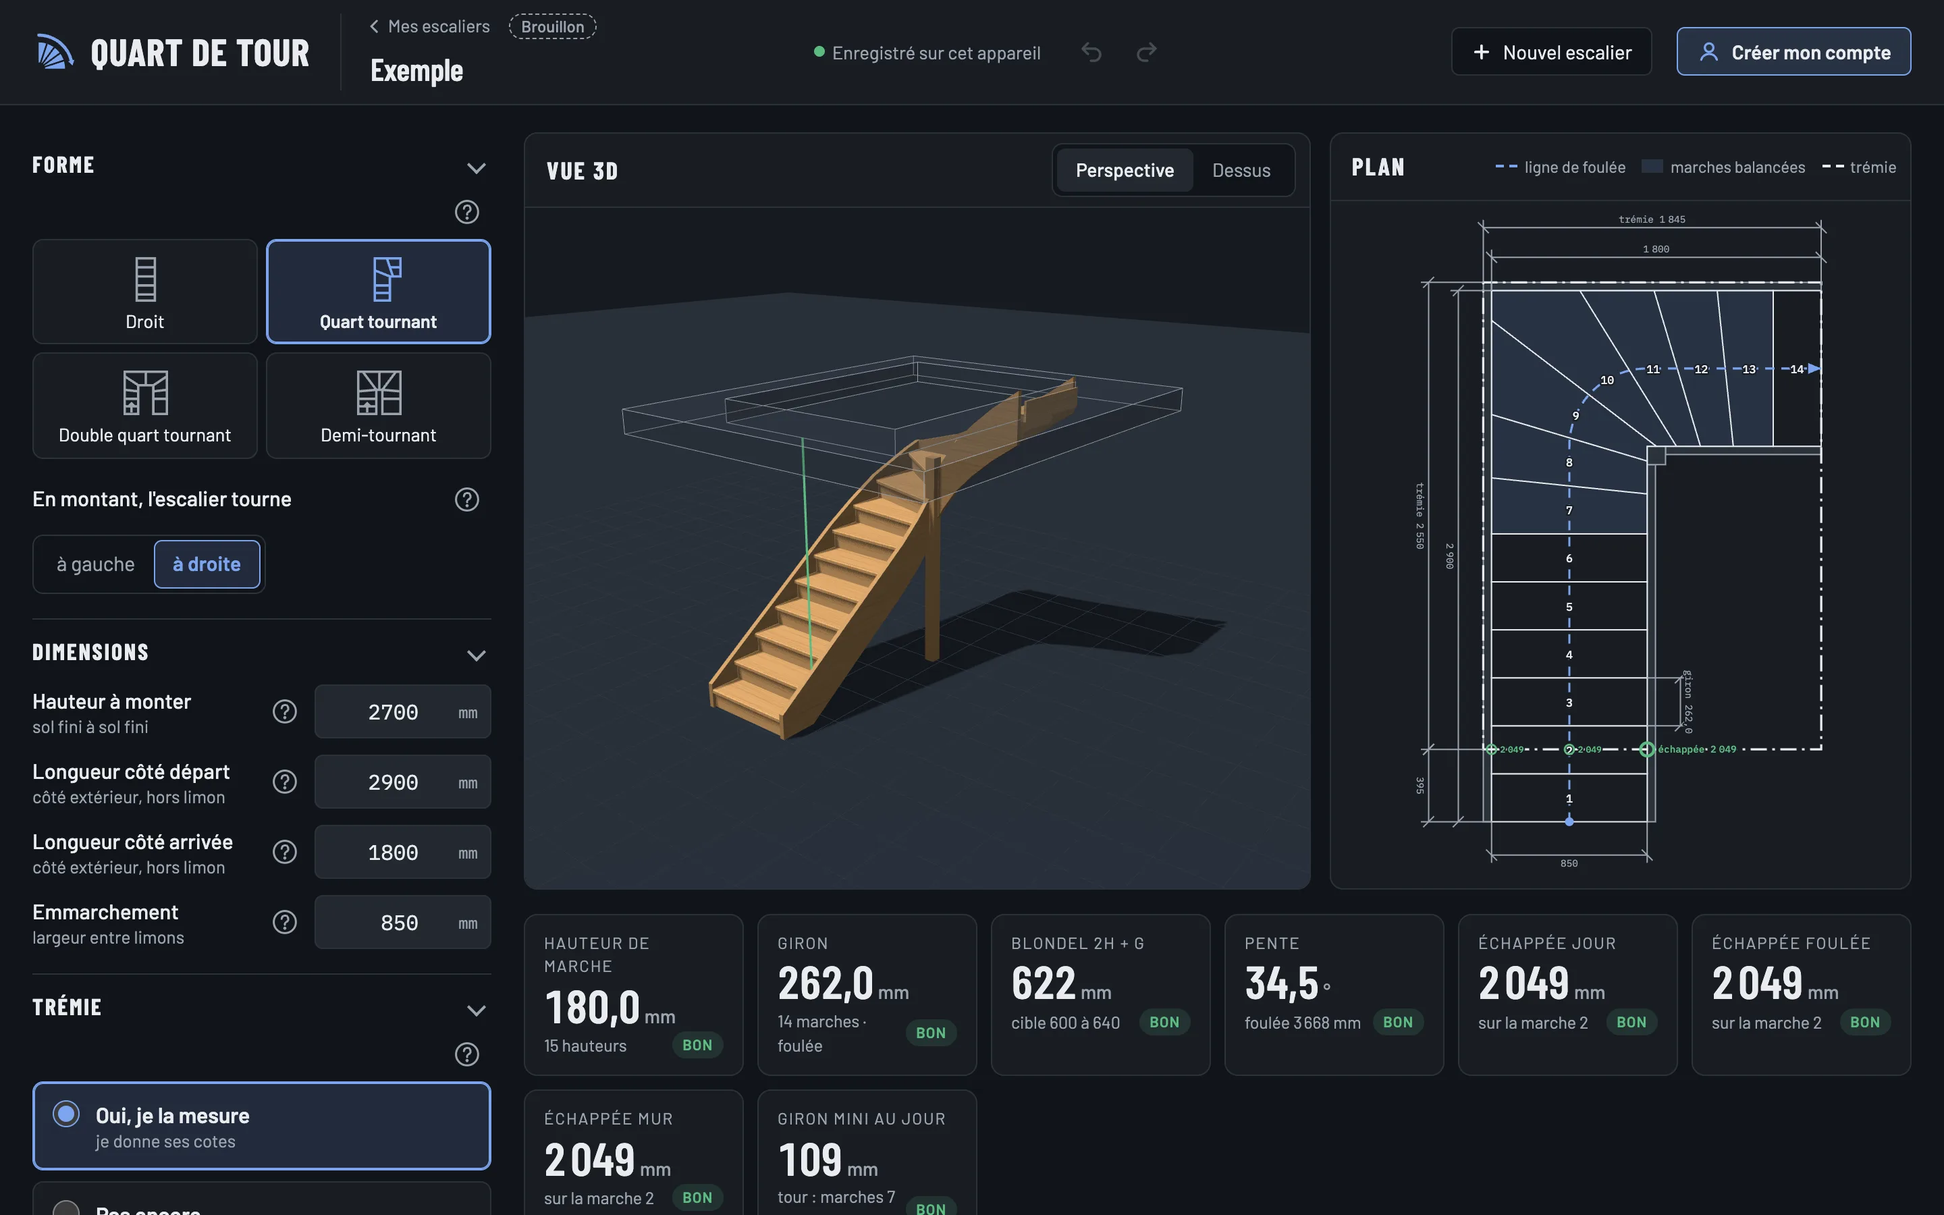
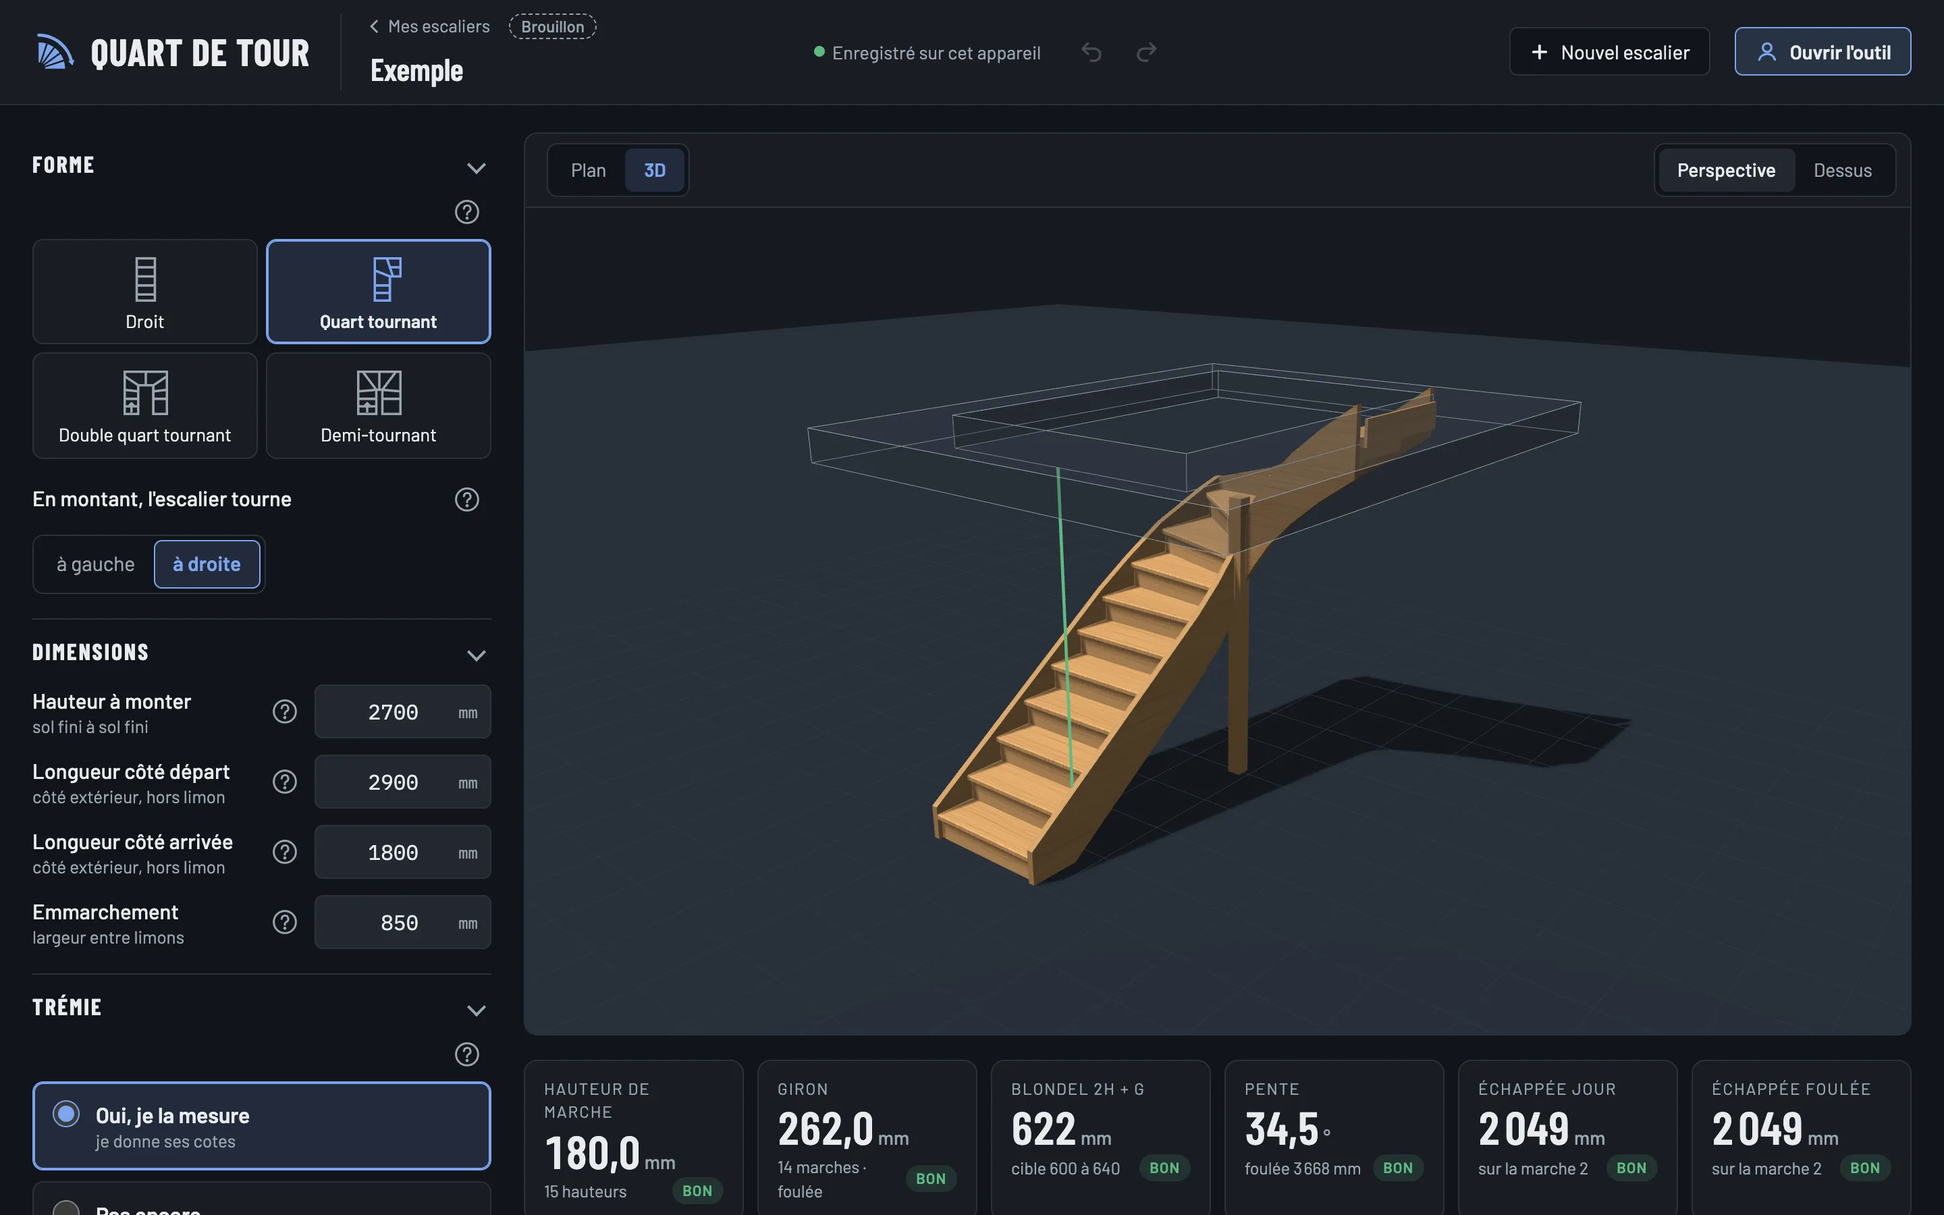
Une seule vue : plan ou 3D, et la vue à l'ouverture dans Mon compte
- Le plan et la 3D partagent un panneau (#vue) : bouton Plan / 3D, puis
  Dessus / Côté pour le plan, Perspective / Dessus pour la 3D.
- Téléphone : un seul onglet Vue à la place des onglets 3D et Plan.
- Mon compte : « Vue à l'ouverture », préférence de l'appareil (limon-vue,
  3D par défaut).
- 3D dessinée masquée : le recul se recalcule à son premier affichage.
- Captures de la page publique refaites (npm run vitrine).

diff --git a/app/index.html b/app/index.html
@@ -229,6 +229,16 @@
             ></span
           ><input type="checkbox" role="switch" id="advToggle"
         /></label>
+        <div class="adv pref">
+          <span
+            ><b>Vue à l'ouverture</b
+            ><small>Celle que vous voyez en ouvrant l'outil. L'autre reste à un bouton.</small></span
+          >
+          <div class="seg" role="group" aria-label="Vue à l'ouverture">
+            <button id="favoriPlan" type="button" aria-pressed="false">Plan</button
+            ><button id="favori3d" type="button" aria-pressed="true">3D</button>
+          </div>
+        </div>
         <div class="soon">
           <h3>Bientôt</h3>
           <ul>
@@ -644,32 +654,30 @@
 
       <main class="main">
         <section class="views">
-          <div class="view" id="view3d">
+          <div class="view" id="vue" data-vue="3d" data-plan="dessus">
             <div class="vhead">
-              <h2>Vue 3D</h2>
-              <div class="seg" role="group" aria-label="Point de vue">
+              <div class="seg vueseg" role="group" aria-label="Vue">
+                <button id="vuePlan" type="button" aria-pressed="false">Plan</button
+                ><button id="vue3d" type="button" aria-pressed="true">3D</button>
+              </div>
+              <div class="legend" data-vue="plan">
+                <span><i></i><b data-plan="dessus">ligne de foulée</b><b data-plan="cote">ligne des nez</b></span
+                ><span data-show="quart"
+                  ><i class="bal"></i><b data-bal>marches balancées</b><b data-pal>palier</b></span
+                ><span data-plan="dessus"><i class="tre"></i>trémie</span
+                ><span data-plan="cote"><i class="dalle"></i>plancher</span>
+              </div>
+              <div class="seg" role="group" aria-label="Vue du plan" data-vue="plan">
+                <button id="pdessus" type="button" aria-pressed="true">Dessus</button
+                ><button id="pcote" type="button" aria-pressed="false">Côté</button>
+              </div>
+              <div class="seg" role="group" aria-label="Point de vue de la 3D" data-vue="3d">
                 <button id="v3d" type="button" aria-pressed="true">Perspective</button
                 ><button id="vtop" type="button" aria-pressed="false">Dessus</button>
               </div>
             </div>
-            <div class="canvas" id="scene"><div class="errbox" id="err3d" hidden></div></div>
-          </div>
-          <div class="view" id="viewPlan" data-vue="dessus">
-            <div class="vhead">
-              <h2>Plan</h2>
-              <div class="legend">
-                <span><i></i><b data-vue="dessus">ligne de foulée</b><b data-vue="cote">ligne des nez</b></span
-                ><span data-show="quart"
-                  ><i class="bal"></i><b data-bal>marches balancées</b><b data-pal>palier</b></span
-                ><span data-vue="dessus"><i class="tre"></i>trémie</span
-                ><span data-vue="cote"><i class="dalle"></i>plancher</span>
-              </div>
-              <div class="seg" role="group" aria-label="Vue du plan">
-                <button id="pdessus" type="button" aria-pressed="true">Dessus</button
-                ><button id="pcote" type="button" aria-pressed="false">Côté</button>
-              </div>
-            </div>
-            <div class="canvas" id="plan"></div>
+            <div class="canvas" id="plan" data-vue="plan"></div>
+            <div class="canvas" id="scene" data-vue="3d"><div class="errbox" id="err3d" hidden></div></div>
           </div>
         </section>
 
@@ -958,18 +966,11 @@
             <circle cx="18" cy="18" r="2" /></svg></span
         >Réglages
       </button>
-      <button type="button" data-tab="vue3d">
+      <button type="button" data-tab="vue">
         <span class="pill"
           ><svg viewBox="0 0 24 24" aria-hidden="true">
             <path d="M12 3l8 4.5v9L12 21l-8-4.5v-9zM12 12l8-4.5M12 12v9M12 12L4 7.5" /></svg></span
-        >3D
-      </button>
-      <button type="button" data-tab="plan">
-        <span class="pill"
-          ><svg viewBox="0 0 24 24" aria-hidden="true">
-            <rect x="7" y="3" width="10" height="18" />
-            <path d="M7 7.5h10M7 12h10M7 16.5h10" /></svg></span
-        >Plan
+        >Vue
       </button>
       <button type="button" data-tab="fiche" id="tabFiche">
         <span class="pill"

diff --git a/src/styles/main.css b/src/styles/main.css
@@ -928,16 +928,6 @@ input[type="range"] {
   gap: 18px;
   min-width: 0;
 }
-.views {
-  display: grid;
-  grid-template-columns: minmax(0, 1.35fr) minmax(0, 1fr);
-  gap: 14px;
-}
-@media (max-width: 1180px) {
-  .views {
-    grid-template-columns: minmax(0, 1fr);
-  }
-}
 .view {
   border: 1px solid var(--rule);
   border-radius: 10px;
@@ -1029,9 +1019,15 @@ input[type="range"] {
   font-weight: 500;
   box-shadow: 0 1px 2px rgba(10, 14, 20, 0.15);
 }
+/* Le choix de la vue, au-dessus de ses deux points de vue. */
+.vueseg button[aria-pressed="true"] {
+  background: var(--chalk-soft);
+  color: var(--chalk);
+  font-weight: 600;
+}
 .canvas {
   position: relative;
-  height: clamp(340px, 56vh, 620px);
+  height: clamp(400px, 68vh, 760px);
   min-width: 0;
 }
 #scene {
@@ -1083,9 +1079,11 @@ input[type="range"] {
   border-block: 1px solid var(--ink);
   background: var(--rule);
 }
-/* Légende du plan selon la vue choisie, de dessus ou de côté. */
-#viewPlan[data-vue="dessus"] [data-vue="cote"],
-#viewPlan[data-vue="cote"] [data-vue="dessus"] {
+/* Une seule vue à l'écran, ses boutons et sa légende ; légende du plan selon le point de vue. */
+#vue[data-vue="3d"] [data-vue="plan"],
+#vue[data-vue="plan"] [data-vue="3d"],
+#vue[data-plan="dessus"] [data-plan="cote"],
+#vue[data-plan="cote"] [data-plan="dessus"] {
   display: none;
 }
 .errbox {
@@ -1564,6 +1562,12 @@ td.low {
   border-radius: 10px;
   background: var(--panel);
   cursor: pointer;
+}
+.adv.pref {
+  cursor: default;
+}
+.adv .seg {
+  flex: none;
 }
 .adv > span {
   display: flex;
@@ -2466,28 +2470,29 @@ body.avance .auto {
 
   /* Le panneau choisi dans la barre d'onglets paraît en fondu. */
   .side,
-  #view3d,
-  #viewPlan,
+  #vue,
   .main > :not(.views) {
     animation: fondu 0.2s ease-out;
   }
   body:not([data-tab="reglages"]) .side,
   body[data-tab="reglages"] .main,
-  body:not([data-tab="vue3d"]) #view3d,
-  body:not([data-tab="plan"]) #viewPlan,
   body[data-tab="fiche"] .views,
-  body:is([data-tab="vue3d"], [data-tab="plan"]) .main > :not(.views) {
+  body[data-tab="vue"] .main > :not(.views) {
     display: none;
   }
-  /* 3D et plan occupent tout l'écran : l'orbite au doigt ne se dispute plus le défilement. */
-  body:is([data-tab="vue3d"], [data-tab="plan"]) {
+  /* La vue occupe tout l'écran : l'orbite au doigt ne se dispute plus le défilement. */
+  body[data-tab="vue"] {
     padding-bottom: 0;
   }
-  body:is([data-tab="vue3d"], [data-tab="plan"]) .view {
+  /* Les boutons sur une ligne, la légende dessous. */
+  #vue .legend {
+    order: 1;
+  }
+  body[data-tab="vue"] .view {
     height: calc(100dvh - var(--hdr, 110px) - var(--below) - 12px);
     min-height: 320px;
   }
-  body:is([data-tab="vue3d"], [data-tab="plan"]) .canvas {
+  body[data-tab="vue"] .canvas {
     flex: 1;
     height: auto;
   }

diff --git a/src/main.ts b/src/main.ts
@@ -57,7 +57,7 @@ let params: Params = { ...DEFAULTS };
 let current: ComputeResult | null = null;
 let cnc: CNC | null = null;
 let scene: Scene3D | null = null;
-/** Vue du panneau Plan : de dessus, ou de côté (développé sur la ligne de foulée). */
+/** Vue du plan : de dessus, ou de côté (développé sur la ligne de foulée). */
 let planCote = false;
 /** Onglet Devis de l'escalier ouvert ; recalculé seulement quand il est à l'écran. */
 const devisView = new DevisView({
@@ -352,6 +352,42 @@ byId<HTMLInputElement>("advToggle").addEventListener("change", (e) => {
     // Stockage indisponible : l'option vaut pour cette visite.
   }
 });
+
+/** Une seule vue à l'écran, le plan ou la 3D, chacune avec ses deux points de vue. */
+function showVue(plan: boolean): void {
+  byId("vuePlan").setAttribute("aria-pressed", String(plan));
+  byId("vue3d").setAttribute("aria-pressed", String(!plan));
+  byId("vue").dataset.vue = plan ? "plan" : "3d";
+}
+byId("vuePlan").addEventListener("click", () => showVue(true));
+byId("vue3d").addEventListener("click", () => showVue(false));
+
+/** Vue à l'ouverture : une préférence de l'appareil, réglée dans l'onglet Mon compte. */
+const VUE_KEY = "limon-vue";
+function setFavori(plan: boolean): void {
+  byId("favoriPlan").setAttribute("aria-pressed", String(plan));
+  byId("favori3d").setAttribute("aria-pressed", String(!plan));
+  showVue(plan);
+}
+try {
+  setFavori(localStorage.getItem(VUE_KEY) === "plan");
+} catch {
+  setFavori(false);
+}
+for (const [id, plan] of [
+  ["favoriPlan", true],
+  ["favori3d", false],
+] as const) {
+  byId(id).addEventListener("click", () => {
+    setFavori(plan);
+    try {
+      localStorage.setItem(VUE_KEY, plan ? "plan" : "3d");
+    } catch {
+      // Stockage indisponible : le choix vaut pour cette visite.
+    }
+  });
+}
+
 /** Projets changés sur un autre appareil : le projet ouvert se recharge, ou laisse la place s'il a été supprimé. */
 store.onChange(async (ids) => {
   if (project && ids.includes(project.id)) {
@@ -442,7 +478,7 @@ function viewPlan(cote: boolean): void {
   planCote = cote;
   byId("pdessus").setAttribute("aria-pressed", String(!cote));
   byId("pcote").setAttribute("aria-pressed", String(cote));
-  byId("viewPlan").dataset.vue = cote ? "cote" : "dessus";
+  byId("vue").dataset.plan = cote ? "cote" : "dessus";
   if (current?.ok) drawPlan(current.stair);
 }
 byId("pdessus").addEventListener("click", () => viewPlan(false));

diff --git a/src/ui/scene3d.ts b/src/ui/scene3d.ts
@@ -149,6 +149,8 @@ export class Scene3D {
   private box: { c: THREE.Vector3; ext: number; mirrored: boolean } | null = null;
   private last: Stair | null = null;
   private lastForme: string | null = null;
+  /** Faux tant que la vue n'a jamais eu de taille à l'écran (masquée au démarrage). */
+  private shown = false;
 
   constructor(
     private readonly host: HTMLElement,
@@ -224,7 +226,10 @@ export class Scene3D {
       h = this.host.clientHeight;
     if (!w || !h) return;
     this.setViewSize(w, h);
-    this.render();
+    // Dessinée masquée : le recul se recalcule à la première taille connue.
+    if (!this.shown && this.box) this.viewPerspective();
+    else this.render();
+    this.shown = true;
   }
 
   private setViewSize(w: number, h: number): void {

diff --git a/src/ui/tabs.ts b/src/ui/tabs.ts
@@ -1,8 +1,8 @@
-/** Téléphone : un seul panneau à l'écran (réglages, 3D, plan, fiche ou devis), choisi dans la barre du bas. Le devis
+/** Téléphone : un seul panneau à l'écran (réglages, vue, fiche ou devis), choisi dans la barre du bas. Le devis
     est aussi un onglet sur grand écran, ouvert par le bouton de l'en-tête. */
 export class Tabs {
   private readonly buttons: HTMLButtonElement[];
-  /** Les vues 3D et plan prennent la hauteur laissée par l'en-tête, qui change avec le nom du projet. */
+  /** La vue prend la hauteur laissée par l'en-tête, qui change avec le nom du projet. */
   private readonly measure: () => void;
 
   constructor(

diff --git a/index.html b/index.html
@@ -100,7 +100,7 @@
               src="/vitrine/outil-clair.webp"
               width="2880"
               height="1800"
-              alt="L'outil sur un ordinateur : réglages d'un quart tournant droit, vue 3D et plan au milieu, contrôles en dessous, tous bons."
+              alt="L'outil sur un ordinateur : réglages d'un quart tournant droit, vue 3D au milieu, contrôles en dessous, tous bons."
             />
           </picture>
         </figure>

diff --git a/scripts/vitrine.ts b/scripts/vitrine.ts
@@ -192,7 +192,7 @@ async function main(): Promise<void> {
       await page.theme(dark);
       await page.go(`${site}app/?exemple`);
       await page.until(READY);
-      await page.click(`[data-tab="vue3d"]`);
+      await page.click(`[data-tab="vue"]`);
       await sleep(800);
       await page.shot(`telephone-3d-${dark ? "sombre" : "clair"}.webp`);
     }

diff --git a/CLAUDE.md b/CLAUDE.md
@@ -19,10 +19,11 @@ Outil d'escaliers pour un ébéniste et d'autres menuisiers, appelé Limon jusqu
 - En-tête : logo (retour à l'accueil), « Mes escaliers » avec l'état de l'escalier et son nom, état de l'enregistrement, « Nouvel escalier », bouton du compte (« Ouvrir l'outil », « Me connecter » après une déconnexion, puis initiale). Accueil (`Home`, `src/ui/home.ts`), page entière à la place de tout dialogue : onglets Escaliers (création, cartes avec vignette du plan, rangées En cours et Terminés, copies en fichier, installation), Mon atelier, Mon compte ; montré quand aucun escalier n'est ouvert, par le logo, « Mes escaliers » (onglet Escaliers) ou le bouton du compte (onglet Mon compte). Un nouvel escalier part toujours en pas à pas.
 - État de l'escalier (`etat` et `finiLe` du `Project`, `withEtat`) : brouillon à la création, à la copie et pour les escaliers d'avant l'état ; « Escalier terminé » dans le bandeau au-dessus de la fiche (masqué en pas à pas). Un réglage changé sur un escalier terminé le repasse en brouillon. La fiche PDF d'un brouillon porte « brouillon » en tête, un filigrane en lettres creuses sur chaque page, et « (brouillon) » dans le nom du fichier.
 - Réglages avancés : préférence de l'appareil (`limon-avance`), interrupteur dans l'onglet Mon compte ; sans elle, les éléments `[data-adv]` sont masqués (hauteurs et foulée à la main, marches balancées, progressivité, nez, assemblage CNC, copie des DXF, nouvel escalier complet) et la section Marches montre le choix du calcul.
+- Vue (`#vue`, `showVue` dans `src/main.ts`) : un seul panneau, le plan ou la 3D (`data-vue`), avec un bouton Plan / 3D et les deux points de vue de chacune (Dessus / Côté pour le plan, Perspective / Dessus pour la 3D). Celle montrée à l'ouverture : préférence de l'appareil (`limon-vue`, `3d` par défaut ou `plan`), dans l'onglet Mon compte. La 3D masquée reste dessinée pour les captures du PDF.
 - Réglages en six `<details>` (Forme, Dimensions, Trémie, Marches, Bois, Garde-corps ; ordre et titres dans `SECTIONS`, `src/core/summary.ts`), avec un résumé quand ils sont repliés. Mode guidé (`Steps`, `src/ui/steps.ts`) : une section à la fois, `mode` et `etape` enregistrés dans le projet, fiche et CNC masquées jusqu'à « Voir mon escalier », croquis de la cote en cours (`src/ui/sketch.ts`).
 - Annuler, rétablir (`History`, `src/core/history.ts` ; `Undo`, `src/ui/undo.ts`) : copies complètes des réglages, une frappe continue dans un même champ (nombre ou curseur) = une étape, une correction d'un clic ou « Revenir à l'exemple » = une étape. En mémoire seulement, vidé à l'ouverture d'un escalier. Flèches à côté de l'état de l'enregistrement (sur téléphone, pastille au-dessus des onglets dès le premier changement), Ctrl/Cmd+Z, Ctrl/Cmd+Maj+Z, Ctrl+Y ; le texte libre (nom de l'escalier) et l'accueil gardent leur Ctrl+Z. `src/main.ts` passe par `setParams` pour tout réglage changé d'un coup.
 - L'export CNC n'est calculé (`buildCNC`) que lorsque sa section est ouverte ; il contient les réglages d'assemblage (hauteurs de limon, plateaux disponibles, encastrement, jeu).
-- Téléphone (écran ≤ 920 px) : barre d'onglets en bas (`Tabs`, `src/ui/tabs.ts`), un panneau à la fois choisi par `body[data-tab]` (réglages, 3D, plan, fiche avec contrôles, notes et CNC sans les boutons « Copier »). 3D et plan prennent la hauteur sous l'en-tête (`--hdr`). Pastille sur « Fiche » quand une note est `warn` ou `bad`. La capture 3D du PDF se rend à taille fixe quand la vue est masquée.
+- Téléphone (écran ≤ 920 px) : barre d'onglets en bas (`Tabs`, `src/ui/tabs.ts`), un panneau à la fois choisi par `body[data-tab]` (réglages, vue, fiche avec contrôles, notes et CNC sans les boutons « Copier »). La vue prend la hauteur sous l'en-tête (`--hdr`). Pastille sur « Fiche » quand une note est `warn` ou `bad`. La capture 3D du PDF se rend à taille fixe quand la vue est masquée.
 - Application installable et hors ligne (`startPWA`, `src/ui/pwa.ts`) : `src/sw.js` en JavaScript, complété au build par le greffon `pwa` de `vite.config.ts` (fichiers du build et de `public/`, sans `.map` ni `.woff`, empreinte en nom de cache). Mises à jour silencieuses, sans bandeau : les artisans ne rechargeraient pas. La nouvelle version attend, prend la main quand la page passe en arrière-plan (ou dès le lancement si elle attendait déjà), puis la page se recharge après avoir enregistré la saisie en cours. Bouton « Installer » dans Mes escaliers (`beforeinstallprompt`), aide Partager → écran d'accueil sur iPhone. Le service worker reste à la racine (`/sw.js`, portée `/`, celle des installations d'avant /app/) et sert `app/index.html` à toute adresse sous `/app/`, `index.html` à `/` ; le manifeste garde son `id` et démarre sur `app/`. Un ancien service worker sert encore l'ancien outil à `/` jusqu'à sa mise à jour : c'est pourquoi les renvois des anciennes adresses visent `/` et non `/app/`. Service worker enregistré en production seulement : essai avec `npm run build` puis `npm run start:local`. Le service worker ne touche jamais `/api/`.
 
 ## Serveur, compte et synchronisation
@@ -68,7 +69,7 @@ Outil d'escaliers pour un ébéniste et d'autres menuisiers, appelé Limon jusqu
 ## Fiche PDF (voir `fichePDF` dans `src/pdf/fiche.ts`)
 
 - PDF 1.4 écrit à la main (`PdfDoc`, `src/pdf/pdf.ts`) : Helvetica standard en WinAnsiEncoding, chasses AFM codées en dur, pas de compression. Trois pages A4 : cotes, contrôles (`checks`, partagés avec les tuiles), remarques, plan et vue 3D ; bois, assemblage et fiche des marches ; liste de débit, volume et alertes de fabrication (`src/cnc/cutlist.ts`, partagé avec le panneau CNC). C'est la seule fiche imprimable.
-- Le plan vient de `planShapes` (`src/core/plan-shapes.ts`), commun au SVG de l'écran et au PDF. La vue de côté vient de `sideShapes` (`src/core/side-shapes.ts`, géométrie dans `sideView`) : développé sur la ligne de foulée, plancher coupé aux bords de trémie, échappée de la ligne de foulée cotée à sa place (rappel de la plus faible si elle tombe ailleurs) ; choix « Dessus / Côté » du panneau Plan, page 2 de la fiche. La vue 3D est capturée par `Scene3D.snapshot()` en thème clair.
+- Le plan vient de `planShapes` (`src/core/plan-shapes.ts`), commun au SVG de l'écran et au PDF. La vue de côté vient de `sideShapes` (`src/core/side-shapes.ts`, géométrie dans `sideView`) : développé sur la ligne de foulée, plancher coupé aux bords de trémie, échappée de la ligne de foulée cotée à sa place (rappel de la plus faible si elle tombe ailleurs) ; choix « Dessus / Côté » de la vue Plan, page 2 de la fiche. La vue 3D est capturée par `Scene3D.snapshot()` en thème clair.
 
 ## Tests
 
